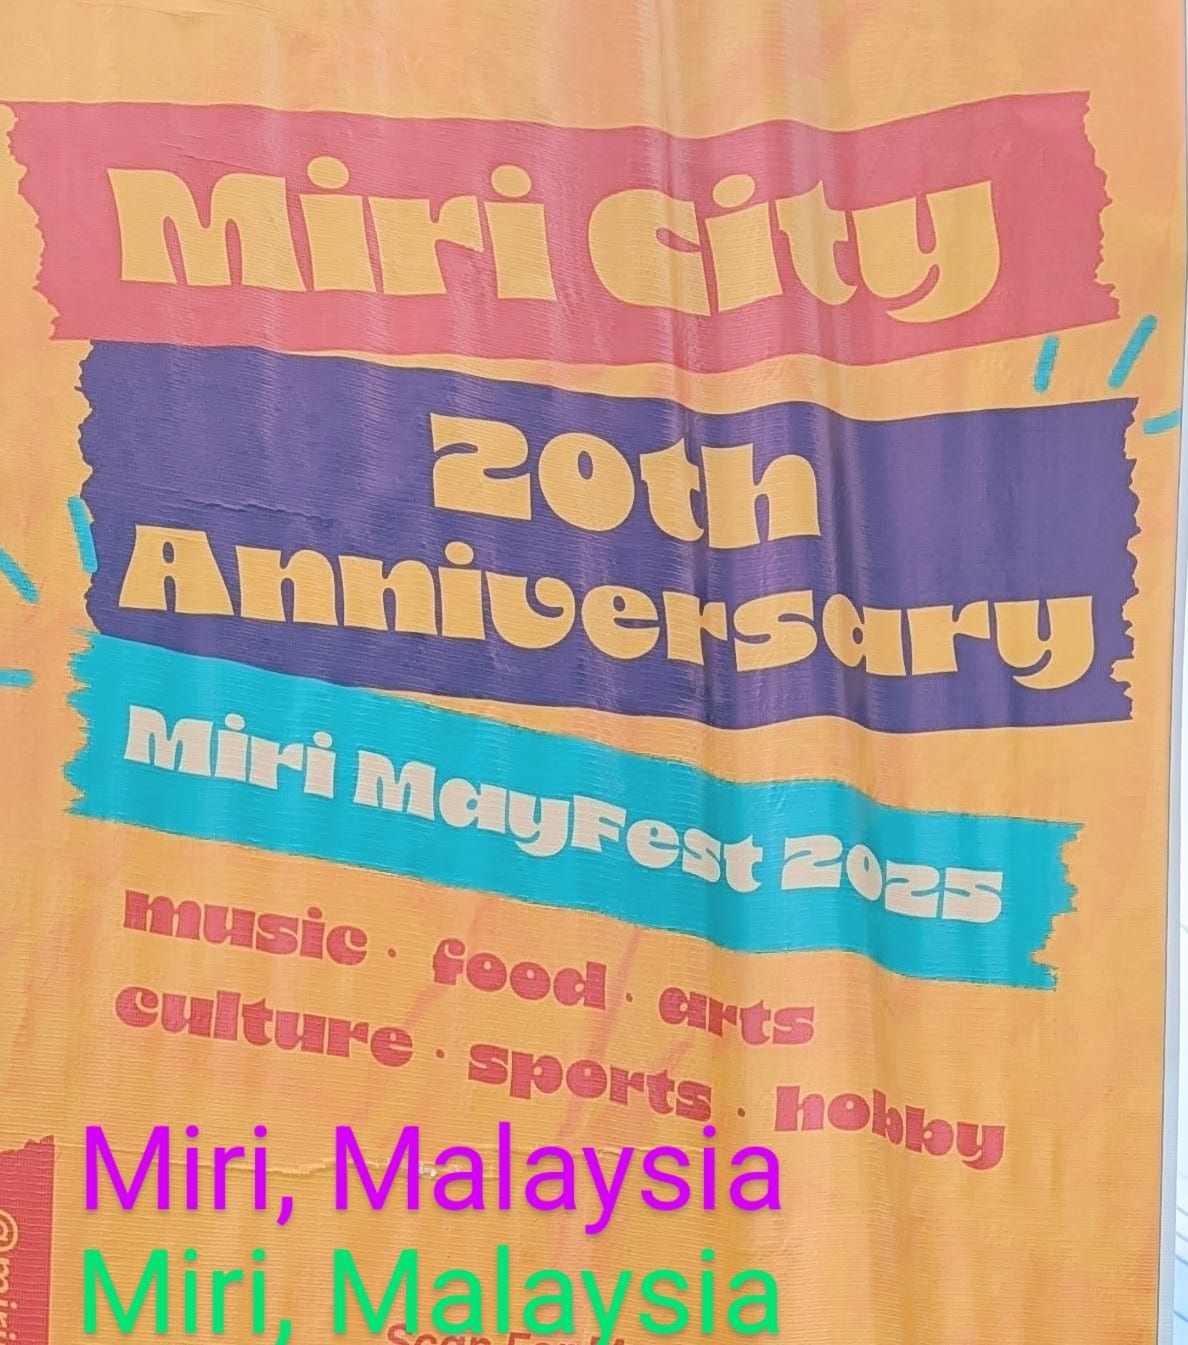
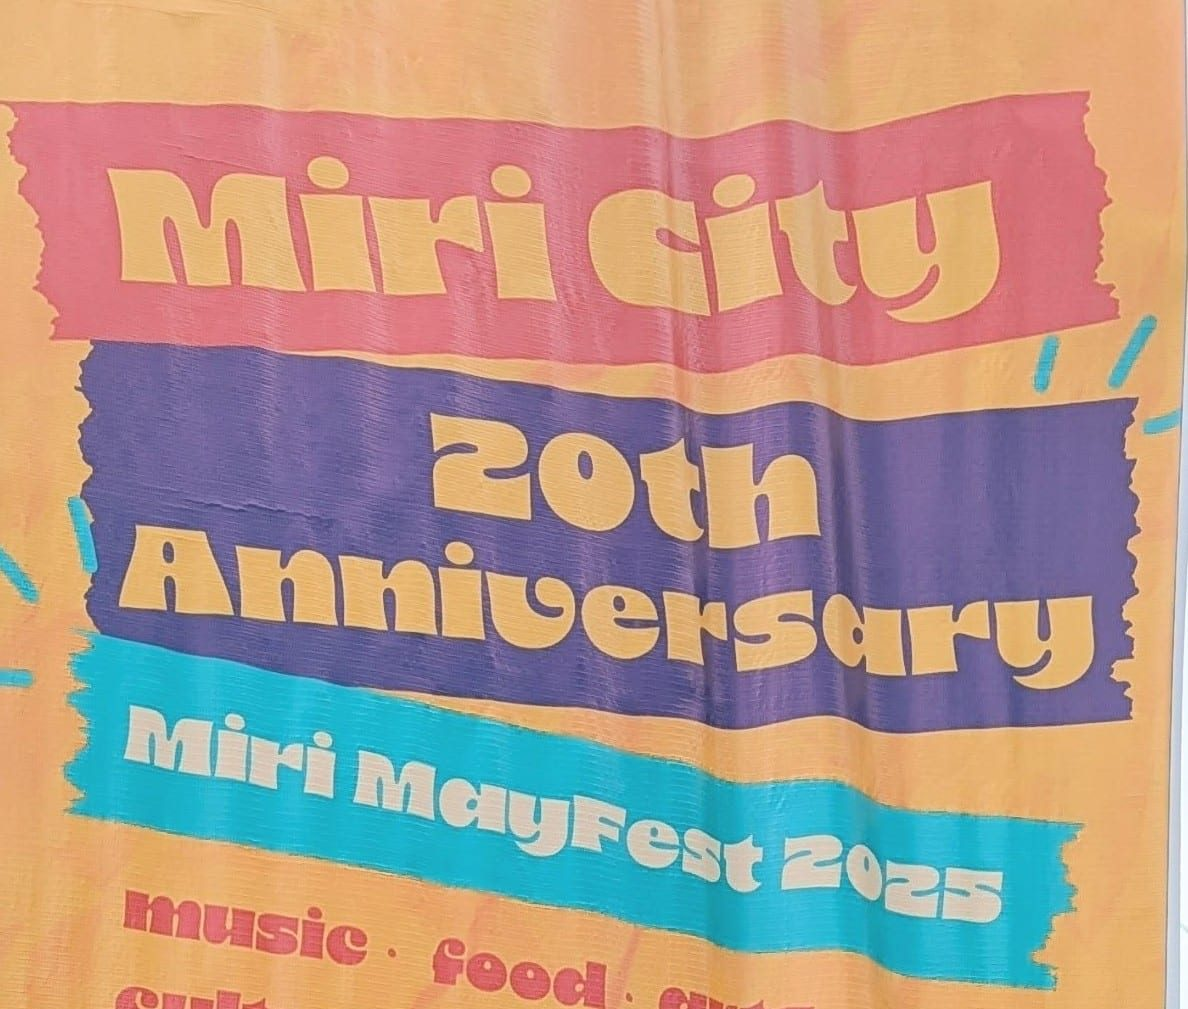
Fix mismatched photo captions and corrupted images in Indonesia-plus gallery
Several photos from the previous batch didn't match their captions, and
three had debug text baked into the pixels. Recaptioned seven photos to
match their real content, cropped the burned-in text off three images,
and dropped three photos whose actual content couldn't be verified
against a real location.

diff --git a/src/data/tripPhotos.ts b/src/data/tripPhotos.ts
@@ -97,17 +97,16 @@ export const tripPhotosByPlan: Record<string, TripPhoto[]> = {
       pos: '50% 25%',
     },
     {
+      src: '/images/trip-plans/maldives-malaysia-brunei-indonesia-timor-leste-loop/brunei-golden-monument.jpg',
+      alt: 'A bubble tea and crepe shop menu board priced in Brunei dollars',
+      stop: 'Bandar Seri Begawan, Brunei',
+      label: 'A Kokoberry menu board, prices in Brunei dollars',
+    },
+    {
       src: '/images/trip-plans/maldives-malaysia-brunei-indonesia-timor-leste-loop/brunei-seria-bus.jpg',
       alt: 'A local B.S.B.-Seria public bus at a stop in Brunei',
       stop: 'Brunei to Miri',
       label: 'The public bus toward the Malaysian border, not a tour van',
-    },
-    {
-      src: '/images/trip-plans/maldives-malaysia-brunei-indonesia-timor-leste-loop/brunei-golden-monument.jpg',
-      alt: 'An ornate golden candelabra-style monument at a Brunei roundabout',
-      stop: 'Brunei to Miri',
-      label: "One of Brunei's oil-money roundabout monuments, hard to miss",
-      pos: '50% 25%',
     },
     {
       src: '/images/trip-plans/maldives-malaysia-brunei-indonesia-timor-leste-loop/miri-mayfest-banner.jpg',
@@ -151,28 +150,15 @@ export const tripPhotosByPlan: Record<string, TripPhoto[]> = {
     },
     {
       src: '/images/trip-plans/maldives-malaysia-brunei-indonesia-timor-leste-loop/dili-unite-mural.jpg',
-      alt: 'Street mural of children playing soccer with an anti-discrimination message in Dili',
+      alt: 'A plate of rice, tofu, and stir-fried greens in Dili',
       stop: 'Dili, Timor-Leste',
-      label: "Street art around Dili, more common than you'd expect",
+      label: 'A simple plate in Dili, rice and greens done well',
     },
     {
       src: '/images/trip-plans/maldives-malaysia-brunei-indonesia-timor-leste-loop/dili-kupang-bagong-bus.jpg',
-      alt: 'Two Bagong coach buses signed for the Kupang-Dili route',
+      alt: 'A motorbike passing on a rural road between Dili and Kupang',
       stop: 'Dili to Kupang',
-      label: 'The overland bus between Timor-Leste and Indonesian West Timor',
-    },
-    {
-      src: '/images/trip-plans/maldives-malaysia-brunei-indonesia-timor-leste-loop/dili-kupang-road-tuk-tuk.jpg',
-      alt: 'A three-wheeled tuk-tuk and motorbikes on the road between Dili and Kupang',
-      stop: 'Dili to Kupang',
-      label: 'Slow going on the road into West Timor',
-    },
-    {
-      src: '/images/trip-plans/maldives-malaysia-brunei-indonesia-timor-leste-loop/kupang-warrior-statue.jpg',
-      alt: 'Traditional warrior statues on a monument in Kupang',
-      stop: 'Kupang, Indonesia',
-      label: 'A quick pass through Kupang, the layover was short',
-      pos: '50% 25%',
+      label: 'The long overland day into Indonesian West Timor',
     },
     {
       src: '/images/trip-plans/maldives-malaysia-brunei-indonesia-timor-leste-loop/jakarta-arrival-plane-wing.jpg',
@@ -182,35 +168,28 @@ export const tripPhotosByPlan: Record<string, TripPhoto[]> = {
     },
     {
       src: '/images/trip-plans/maldives-malaysia-brunei-indonesia-timor-leste-loop/jakarta-mrt-train.jpg',
+      alt: 'Uma Oma Cafe restaurant sign in Jakarta',
+      stop: 'Jakarta, Indonesia',
+      label: 'Uma Oma, an easy stop for a real meal near Blok M',
+    },
+    {
+      src: '/images/trip-plans/maldives-malaysia-brunei-indonesia-timor-leste-loop/jakarta-grab-driver.jpg',
       alt: 'Commuters riding a packed Jakarta MRT train car',
       stop: 'Jakarta, Indonesia',
       label: 'The MRT is the easiest way to skip Jakarta traffic',
       pos: '50% 30%',
     },
     {
-      src: '/images/trip-plans/maldives-malaysia-brunei-indonesia-timor-leste-loop/jakarta-grab-driver.jpg',
-      alt: 'A Grab motorbike driver waiting curbside in Jakarta',
-      stop: 'Jakarta, Indonesia',
-      label: 'Grab bikes are the fastest way around the city, traffic or not',
-      pos: '50% 25%',
-    },
-    {
-      src: '/images/trip-plans/maldives-malaysia-brunei-indonesia-timor-leste-loop/java-rice-fields-farmer.jpg',
-      alt: 'Rice paddies with a farmer at work, seen from the train to Yogyakarta',
-      stop: 'Train to Yogyakarta',
-      label: 'Rice country rolling past the window on the way to Yogyakarta',
-    },
-    {
       src: '/images/trip-plans/maldives-malaysia-brunei-indonesia-timor-leste-loop/java-rice-fields-valley.jpg',
-      alt: 'A green rice-field valley with palm trees, seen from the train',
-      stop: 'Train to Yogyakarta',
-      label: 'The scenery alone is worth taking the train instead of flying',
-    },
-    {
-      src: '/images/trip-plans/maldives-malaysia-brunei-indonesia-timor-leste-loop/yogyakarta-sign.jpg',
       alt: 'Large Yogyakarta letters sign outside the train station',
       stop: 'Yogyakarta, Indonesia',
       label: 'Yogyakarta, the base for Borobudur and Prambanan',
+    },
+    {
+      src: '/images/trip-plans/maldives-malaysia-brunei-indonesia-timor-leste-loop/yogyakarta-sign.jpg',
+      alt: 'A rooster perched among banana plants in a Java garden',
+      stop: 'Yogyakarta, Indonesia',
+      label: 'A rooster keeping watch, somewhere on the way to the temples',
     },
     {
       src: '/images/trip-plans/maldives-malaysia-brunei-indonesia-timor-leste-loop/borobudur-buddha-carving.jpg',